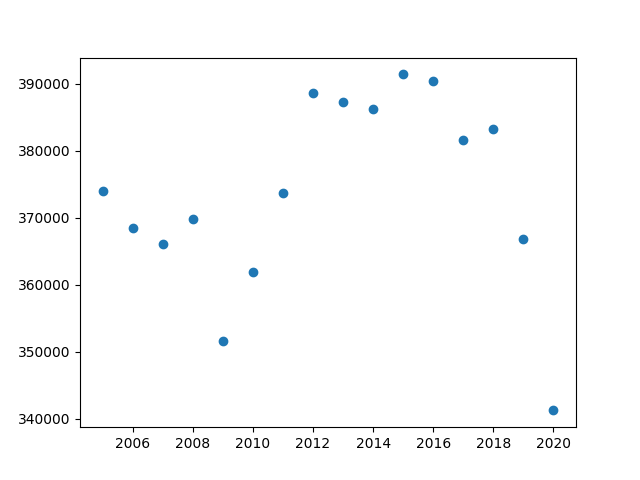
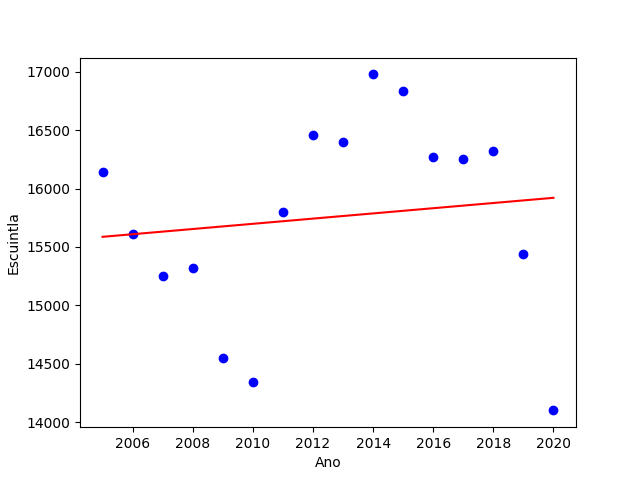
Polinomial

diff --git a/web.py b/web.py
@@ -1,13 +1,15 @@
-from pyparsing import line
 import streamlit as st
 import pickle
 import pandas as pd
 import os
 import matplotlib.pyplot as plt
 from sklearn import linear_model
+from sklearn.model_selection import train_test_split
+from sklearn.preprocessing import PolynomialFeatures
 import numpy as np
 from PIL import Image
 regr_Linear = linear_model.LinearRegression()
+
 
 df = ''
 data = ''
@@ -16,7 +18,7 @@ coy = ''
 
 
 def main():
-    global df, data, x, y, cox, coy
+    global df, data, x, y, cox, coy, regr_Linear
     st.title('Modelamiento de Datos por @Brayan Prado')
     st.sidebar.header('entrada Parametros de Usuario')
 
@@ -25,6 +27,8 @@ def main():
 
     Operaciones = ['Graficar puntos', 'Definir función de tendencia', 'Realizar predicción de la tendencia', 'Clasificar por Gauss o árboles de decisión o redes neuronales']
     ne = st.sidebar.selectbox('Seleccione la Operacion a Realizar', Operaciones)
+
+    nivel = st.sidebar.text_input('Ingrese en grado del polinomio')
 
     data = st.file_uploader("Seleccione el Archivo", type=["csv", "xls", "xlsx", "json"])
     if data is not None:
@@ -40,14 +44,37 @@ def main():
                 if ((model == 'Regresion Lineal') or (model == 'Regresion Polinomial')) and (ne == 'Graficar puntos'):
                     fil = df[cox].tolist()
                     col = df[coy].tolist()
-                    plt.scatter(fil, col)
+                    plt.scatter(fil, col, color='blue')
                     plt.ylabel(coy)
                     plt.xlabel(cox)
+                    if (model == 'Regresion Lineal'):
+                        cx = np.array(df[cox]).reshape(-1,1)
+                        cy = df[coy]
+                        regr_Linear.fit(cx, cy)
+                        R = regr_Linear.score(cx,cy)
+                        b0 = regr_Linear.intercept_
+                        b1 = regr_Linear.coef_
+                        if (b0 < 0):
+                            st.write(str(b1[0]) + 'x ' + str(b0))
+                        elif (b0 > 0):
+                            st.write(str(b1[0]) + 'x + ' + str(b0))
+                        y_p = b1[0]*cx+b0
+                        plt.plot(cx, y_p, color='red')
+                    if (model == 'Regresion Polinomial'):
+                        if nivel is not None: 
+                            cx = np.array(df[cox]).reshape(-1, 1)
+                            cy = df[coy]
+                            X_train_p, X_test_p, Y_train_p, Y_test_p = train_test_split(cx, cy, test_size=0.15)
+                            polgra = PolynomialFeatures(degree= int(nivel))
+                            X_train_poli = polgra.fit_transform(X_train_p)
+                            X_test_poli = polgra.fit_transform(X_test_p)
+                            regr_Linear.fit(X_train_poli, Y_train_p)
+                            Y_pred_p = regr_Linear.predict(X_test_poli)
+                            plt.plot(X_test_p, Y_pred_p, color='red')
                     plt.savefig('Dispersion.png')
                     plt.close()
                     image = Image.open('Dispersion.png')
                     st.image(image, caption="Grafica de Dispersion")
-                    #st.pyplot('Dispersion.png')
         elif spli[1] == '.xls':
             df = pd.read_excel(data)
             x  = df.head()
